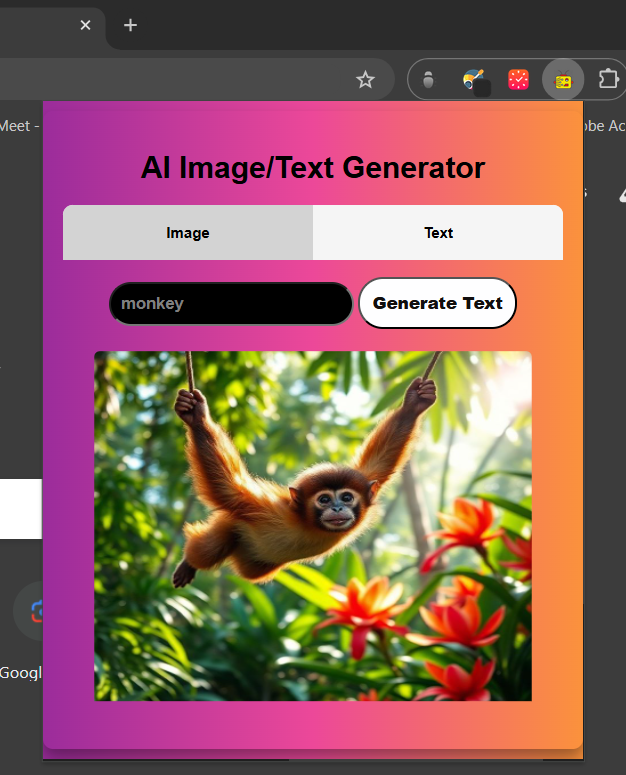
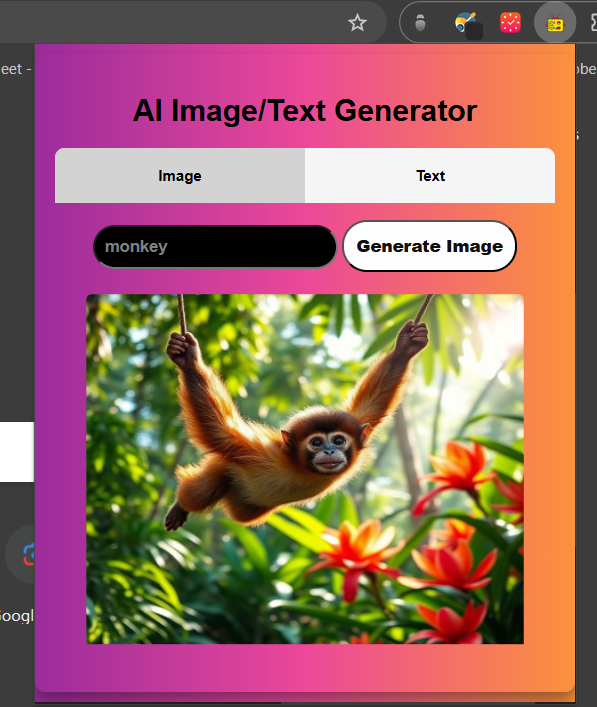
change image

diff --git a/popup.html b/popup.html
@@ -9,7 +9,7 @@
   </div>
 </br>
   <input type="text" id="prompt" placeholder="Enter your prompt">
-  <button id="generate">Generate Text</button>
+  <button id="generate">Generate Image</button>
   <div class="imagedesign " id="imageContainer"></div>
   
   <script src="popup.js"></script>
